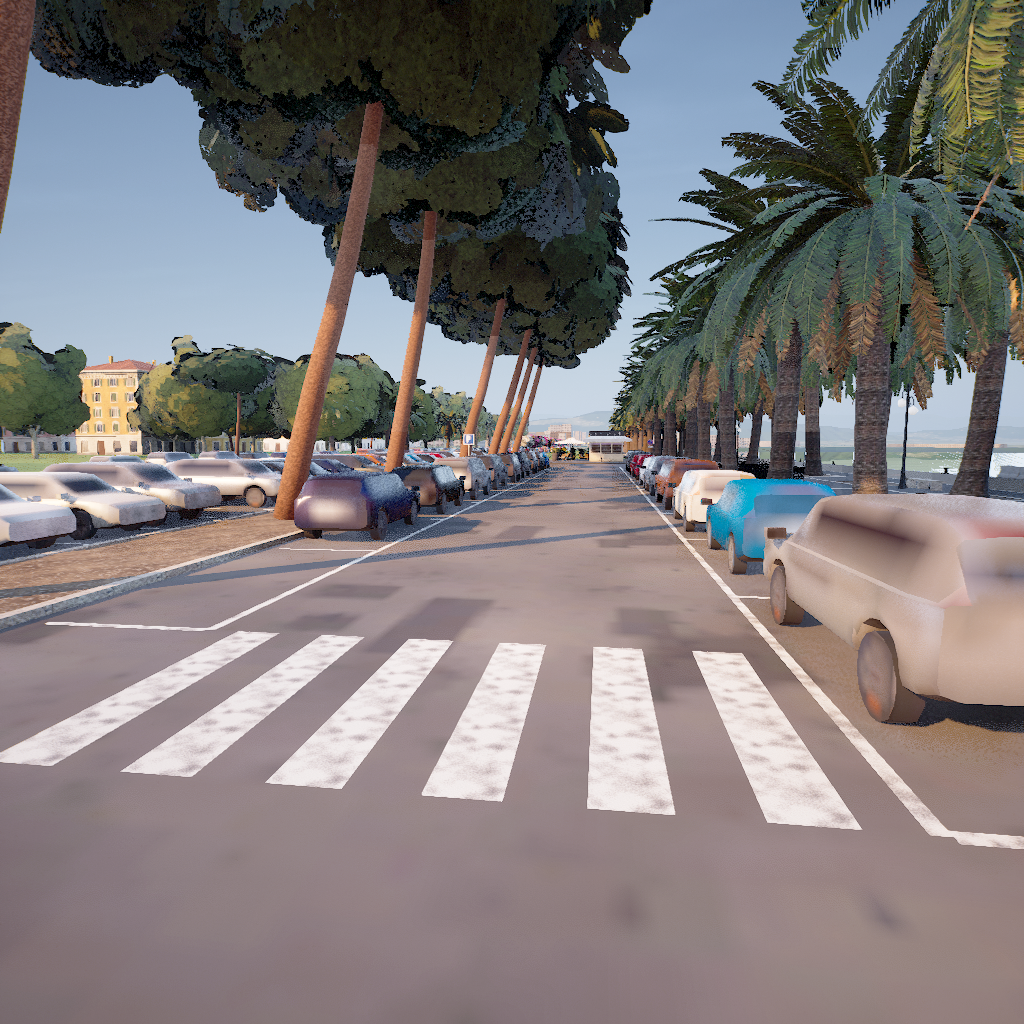
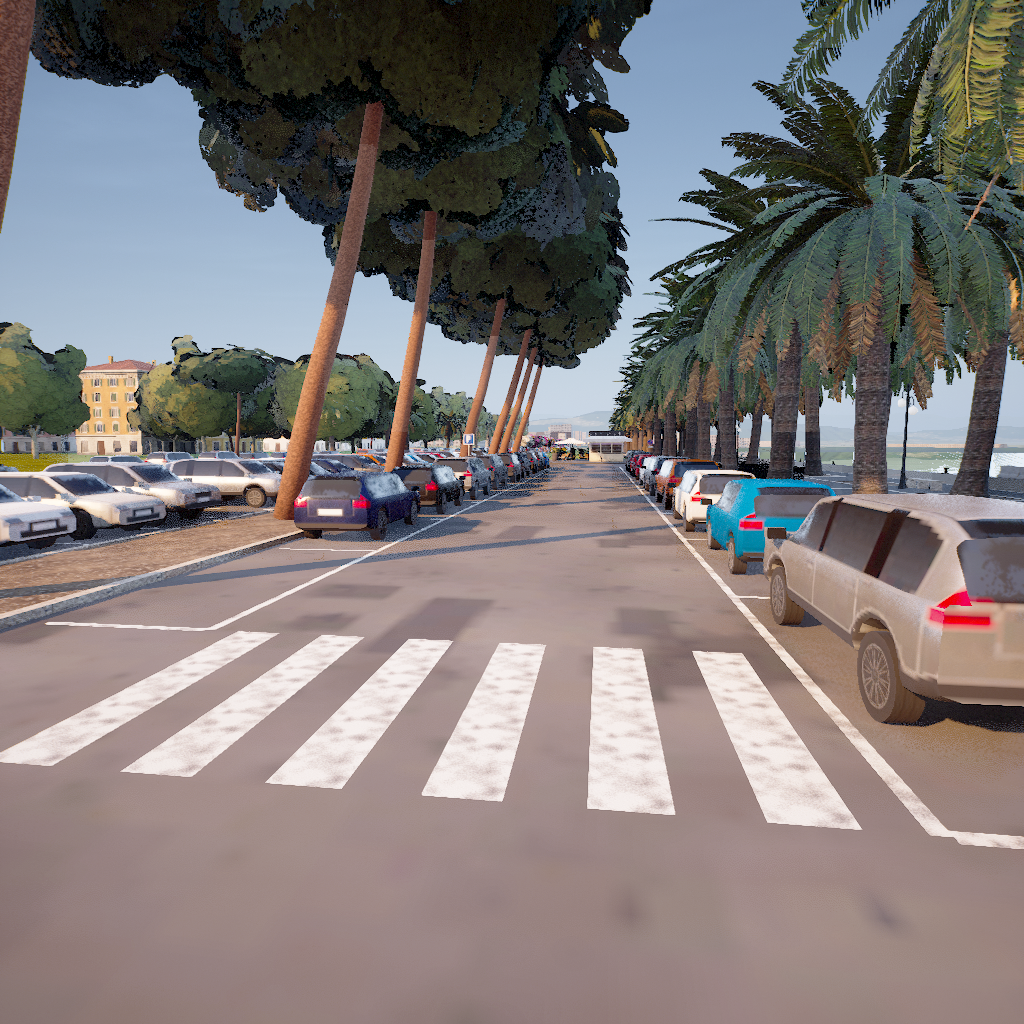
UEFN: LODBias 0 sulle texture auto v2, 13 auto del viale con collisione
Claude-Session: https://claude.ai/code/session_01NuTJWoTG2LGYXGAyfrYAnt

diff --git a/PLAN.md b/PLAN.md
@@ -156,9 +156,8 @@ mai reimport/sostituzioni: aprono finestre modali che bloccano l'editor e ruotan
      su X 1536..10752, raccordi `_RaccordoSO`/`_RaccordoNE`): fila a pettine e asfalto ora giocabili, catena senza varchi.
      Salvataggio 05:03 (91 pacchetti), validazione 368/368, 0 errori, 12 avvisi noti. Render `docs/qa/uefn_parcheggio_v2.png`.
    - [ ] (qa-tester) In sessione: le barriere nuove bloccano davvero (in modalità Crea non hanno collisione, verificate solo dai bounds);
-     al bordo Y −12185 il giocatore entra ~0,7-0,9 m nelle auto in sosta del viale (Y −12207, senza collisione): accettare o dare
-     collisione alle 13 auto del viale davanti al parcheggio (X 17-87 m).
-   - [ ] (utente) Auto v2 in scena: tetti e cofani molto chiari/lattiginosi con la luce delle 18 (riflesso del cielo?), mentre la
+     (risolto 2026-11-20: le 13 auto del viale davanti al parcheggio spostate negli HISM `_Col_v2`, ora solide; §20)
+   - [x] (uefn-builder, risolto: LODBias 1 → 0 sulle texture auto v2, §20) Auto v2 in scena: tetti e cofani molto chiari/lattiginosi con la luce delle 18 (riflesso del cielo?), mentre la
      miniatura dell'asset è corretta; valutare `Roughness_Mult` di `MI_Morin_Auto_v2`.
    - [ ] (utente/geo-scout) Verificare [S] del parcheggio: larghezza corsia (6,25), seconda fila a pettine dietro gli alberi, senso unico,
      posizione dei cartelli e dei new jersey, lampione a due globi affiancati (non modellato).

diff --git a/docs/uefn_arte.md b/docs/uefn_arte.md
@@ -936,3 +936,8 @@ Log: nessun errore nuovo (solo audio/EOS). Render `docs/qa/uefn_parcheggio_v2.pn
 - Nel render le auto v2 hanno tetti e cofani lattiginosi e la texture appare morbida (la miniatura dell'asset è corretta): probabile riflesso
   del cielo con la luce delle 18 e/o streaming delle mip nel render; da guardare in sessione, eventualmente `Roughness_Mult` di `MI_Morin_Auto_v2`.
 - I pini sono inclinati (pitch fino a −7,8°) tutti verso lo stesso lato: è il CSV, da confermare con la foto.
+- **Correzione (05:15 circa):** auto sfocate/lattiginose per **LODBias 1** su `T_Morin_Auto_v2_D/N/ORM` (default dell'import; sRGB, compressione e
+  canali della MI erano già giusti, identici a `MI_Morin_Chiosco`) e mip non residenti nel render: LODBias → **0**, mip forzati prima della cattura;
+  `uefn_parcheggio_v2.png` rifatta (texture nitide, vetri scuri, `Roughness_Mult` non toccato). Le 13 auto del viale in sosta davanti al
+  parcheggio (Y −12207..−12223, X 17-86 m) spostate dagli HISM `Arte_Viale_Auto*_v2_*` agli HISM `Arte_Parcheggio_Auto*_Col_v2_*` dello stesso
+  modello e colore (parcheggio 53 istanze, viale 78): trace dall'alto 13/13 sulle `_Col_v2`. Salvato, nessun pacchetto sporco, validazione 368/368, 0 errori.
